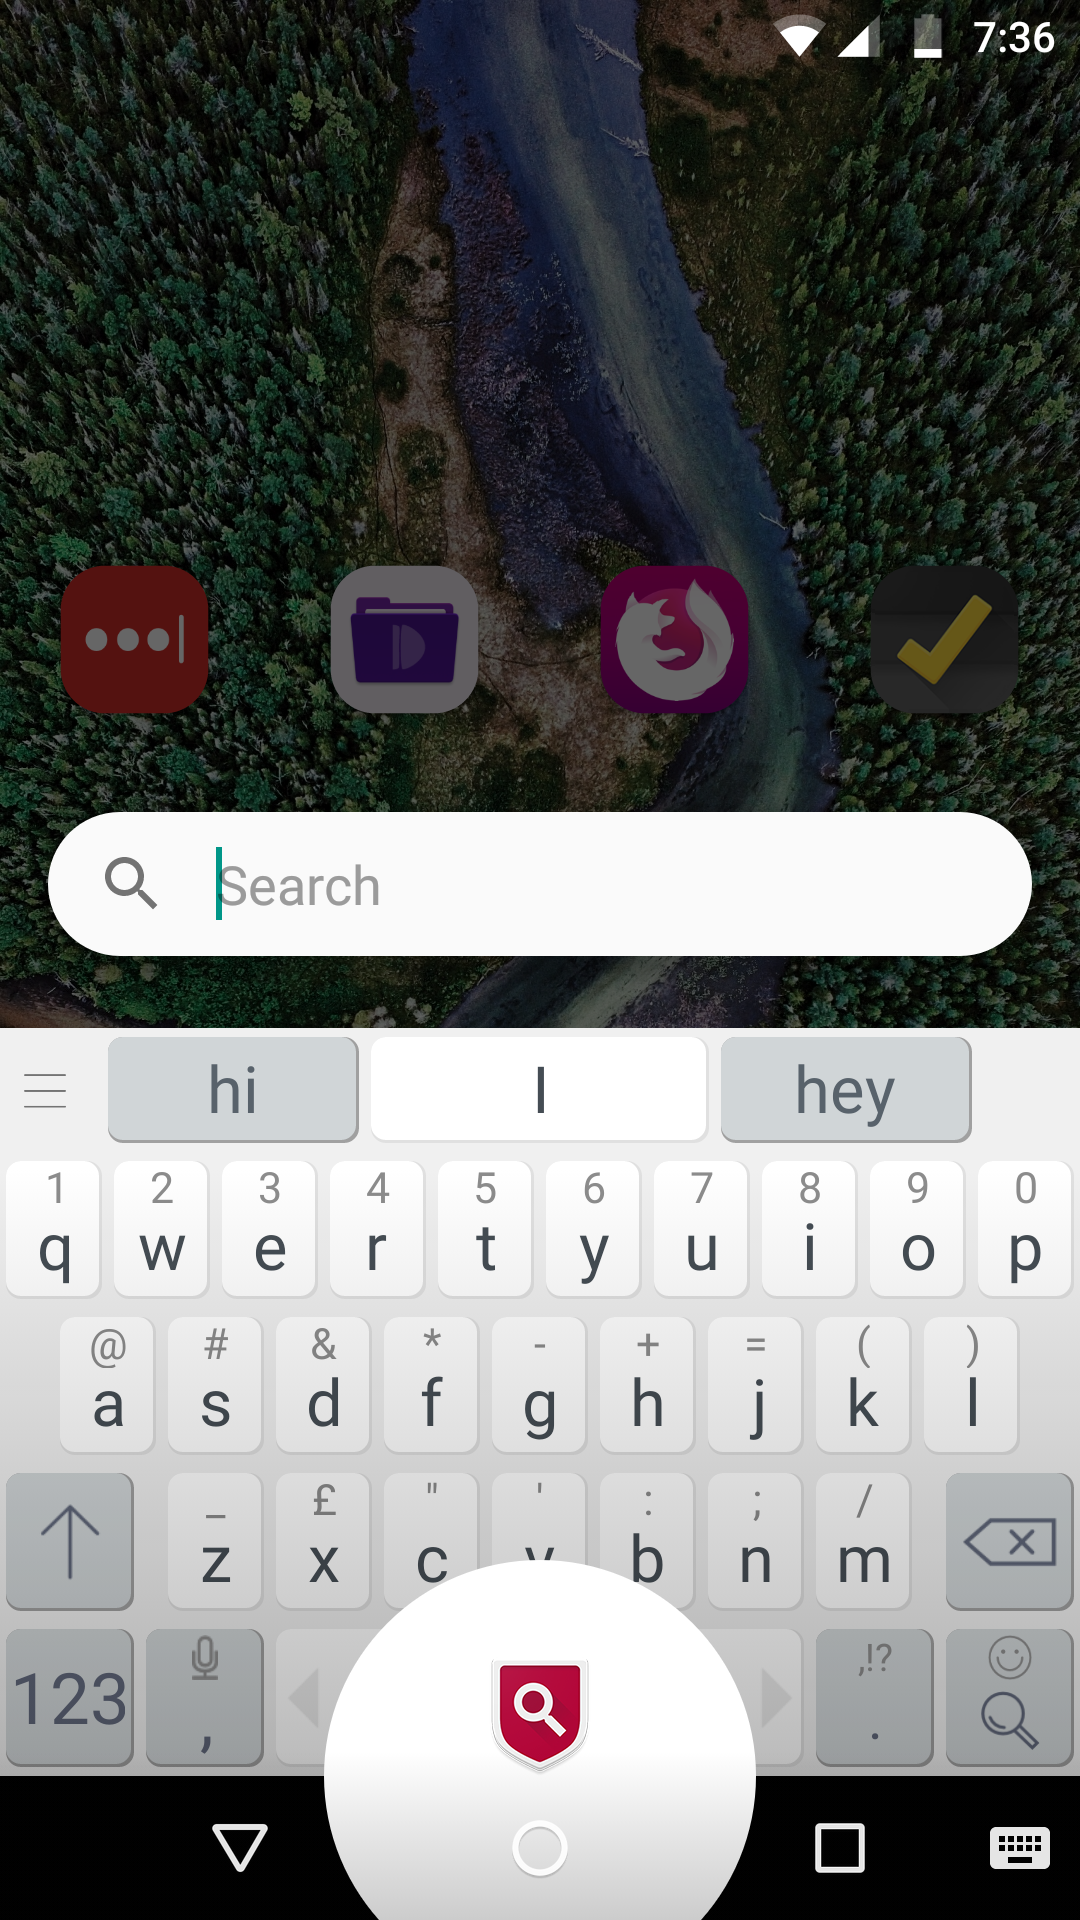
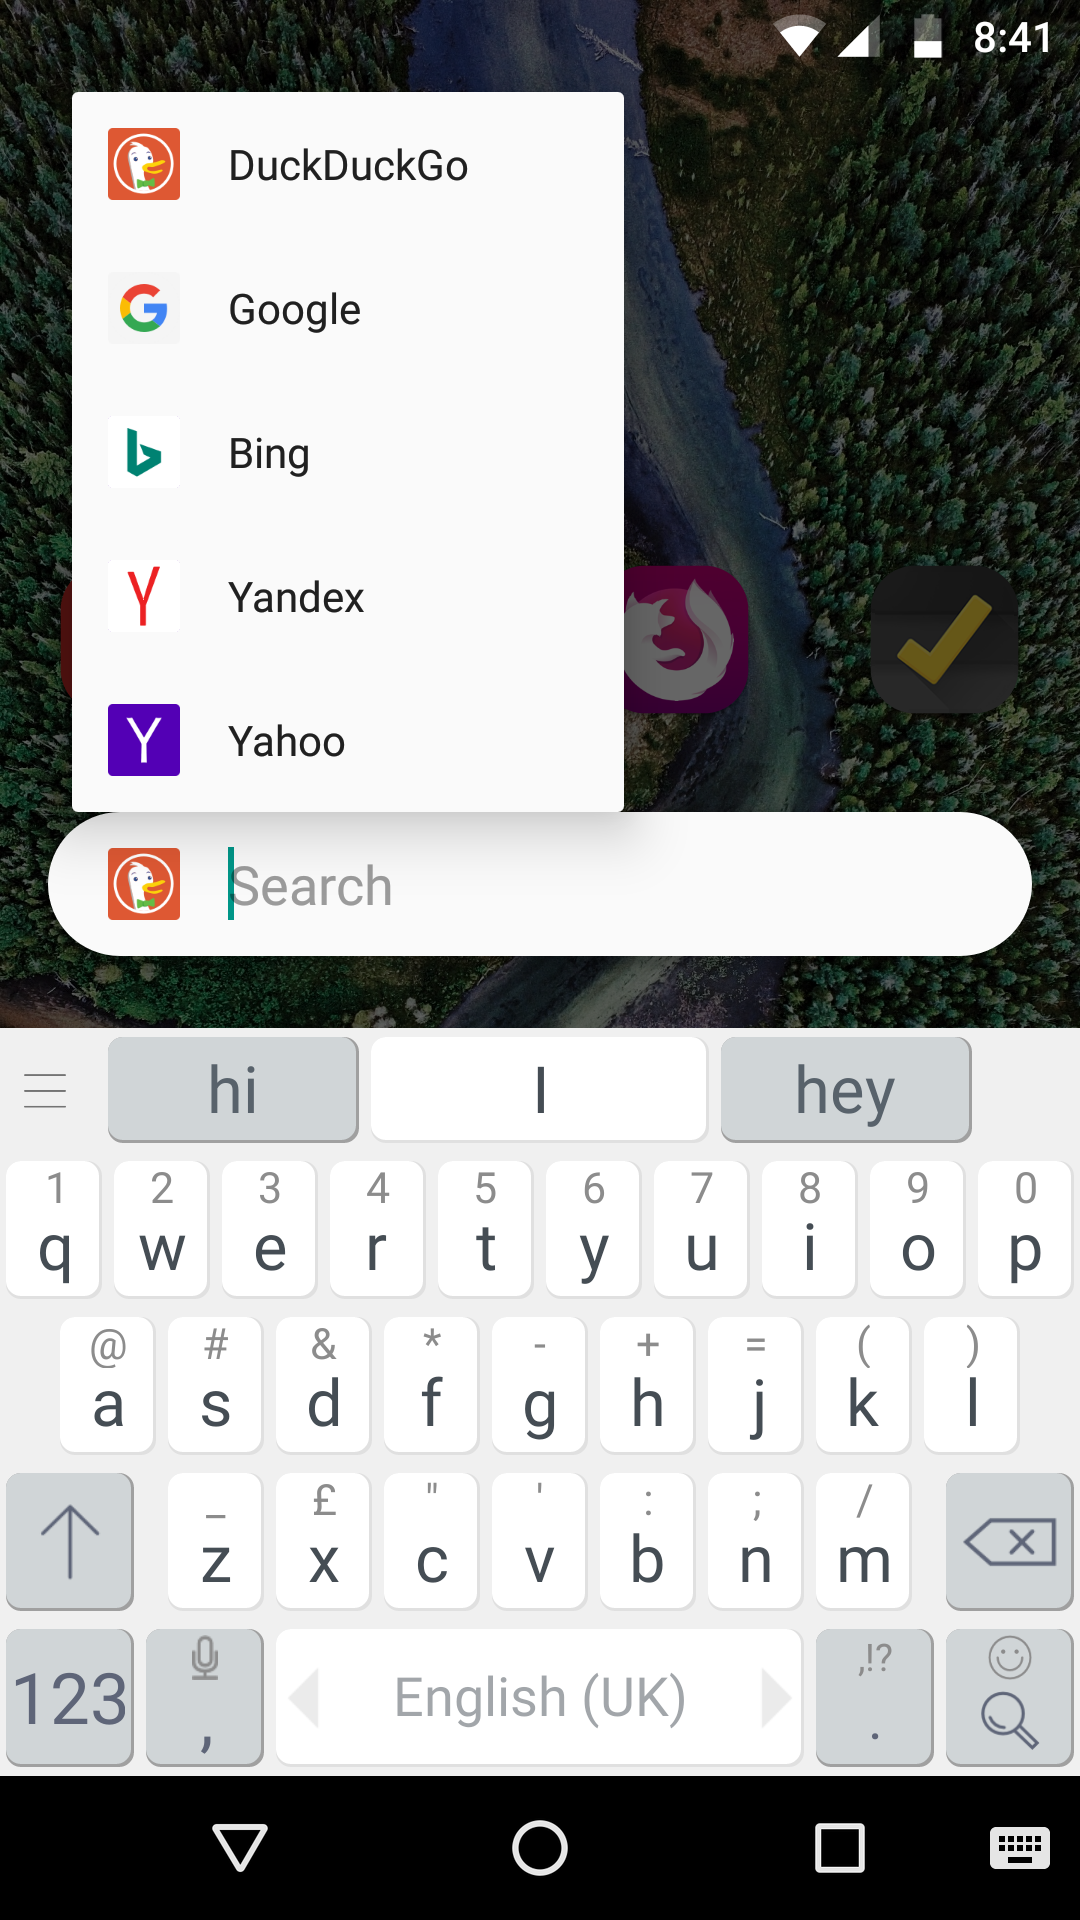
Update readme

diff --git a/README.md b/README.md
@@ -9,7 +9,7 @@ It provides a simple way to search from everywhere without needing to launch the
 As an assist app, SAS cannot be launched via the launcher. Users need to navigate to the device settings and change the default Assist app.
 
 ## Contributing 
-Swiss Army Search only supports DuckDuckGo, with support for other providers planned, as well as showing installed apps so that you don't have to first go to home to search for them. 
+SAS uses DuckDuckGo by default, but allows opting for Google, Bing, Yandex or Yahoo instead. 
 To contribute check out [the available issues](https://github.com/veniosg/SwissArmySearch/issues)!
 
 ## License
